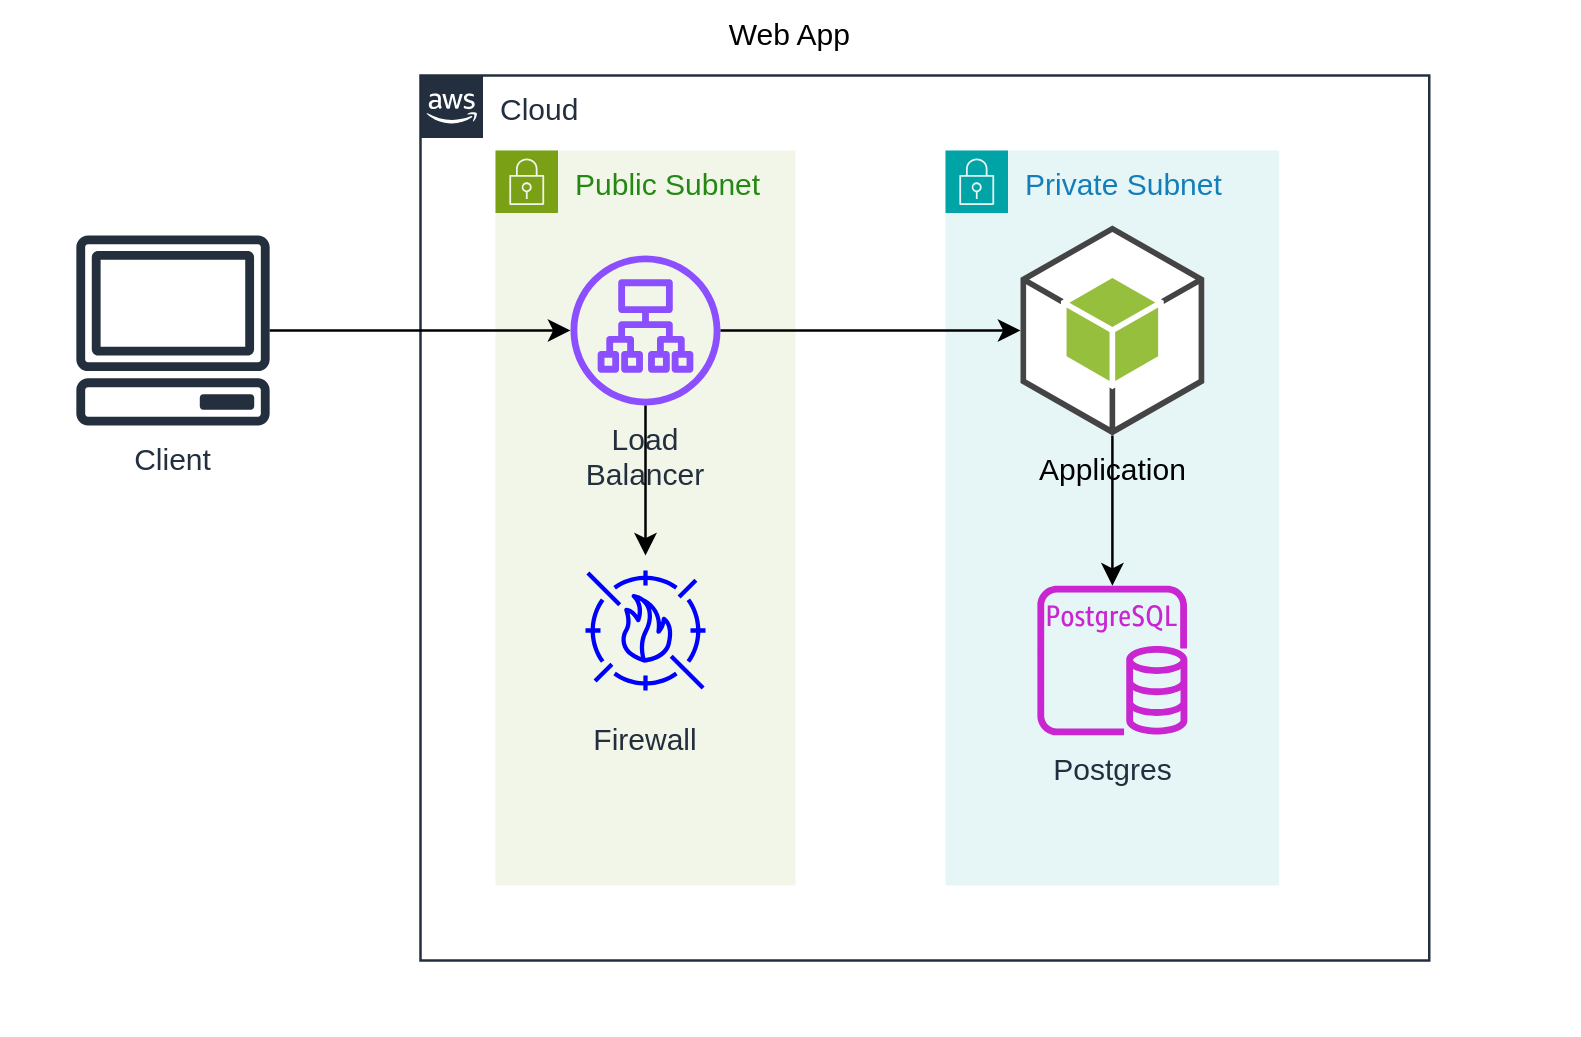
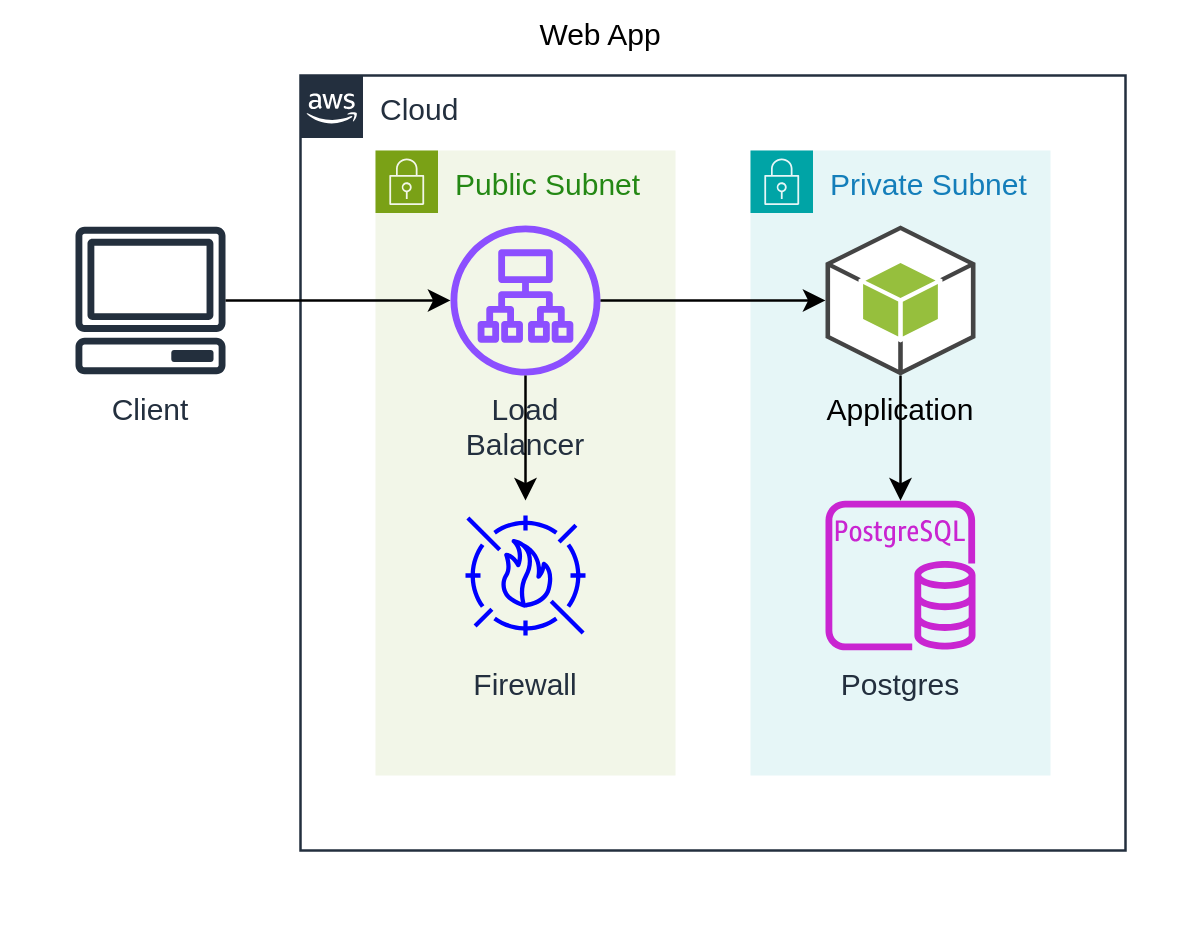
Support correct padding and margin

Changed region(s): [[0.0308, 0.0, 0.9235, 0.9364]]

diff --git a/core/renderer-drawio/src/processors/p31ResolveDimension.ts b/core/renderer-drawio/src/processors/p31ResolveDimension.ts
@@ -124,12 +124,8 @@ const resolveDimensions = (node: DrawioNodeTree, x: number, y: number) => {
 
     if (node._props._diagram.flags.isDirectionVertical) {
       if (child._props._diagram.state.height > 0) {
-        childY = childY + child._props._diagram.dimension.margin.top +
-          child._props._diagram.state.height +
-          child._props._diagram.dimension.margin.bottom
-        height = height + child._props._diagram.dimension.margin.top +
-          child._props._diagram.state.height +
-          child._props._diagram.dimension.margin.bottom
+        childY = childY + child._props._diagram.state.height
+        height = height + child._props._diagram.state.height
         width = Math.max(
           width,
           child._props._diagram.state.width,
@@ -137,12 +133,8 @@ const resolveDimensions = (node: DrawioNodeTree, x: number, y: number) => {
       }
     } else {
       if (child._props._diagram.state.width > 0) {
-        childX = childX + child._props._diagram.dimension.margin.left +
-          child._props._diagram.state.width +
-          child._props._diagram.dimension.margin.right
-        width = width + child._props._diagram.dimension.margin.left +
-          child._props._diagram.state.width +
-          child._props._diagram.dimension.margin.right
+        childX = childX + child._props._diagram.state.width
+        width = width + child._props._diagram.state.width
         height = Math.max(
           height,
           child._props._diagram.state.height,
@@ -203,7 +195,7 @@ const resolveDimensions = (node: DrawioNodeTree, x: number, y: number) => {
   node._props._diagram.state.height = node._props._diagram.geometry.height +
     node._props._diagram.dimension.margin.top +
     node._props._diagram.dimension.margin.bottom
-  if (node._props._diagram.isTextOutside) {
+  if (node._props._diagram.flags.isTextOutside) {
     node._props._diagram.state.height = node._props._diagram.state.height +
       node._props._diagram.dimension.textHeight
   }

diff --git a/core/renderer-drawio/src/processors/p61ConsolidateDependencies.ts b/core/renderer-drawio/src/processors/p61ConsolidateDependencies.ts
@@ -93,9 +93,7 @@ const populateAbs = ({ dependencies }: DrawioContext) => {
         selected._props._diagram.state.absLeft = absLeft(selected)
         selected._props._diagram.state.absRight =
           selected._props._diagram.state.absLeft +
-          selected._props._diagram.state.width -
-          selected._props._diagram.dimension.margin.left -
-          selected._props._diagram.dimension.margin.right
+          selected._props._diagram.geometry.width
         selected._props._diagram.state.absCenterX =
           (selected._props._diagram.state.absLeft +
             selected._props._diagram.state.absRight) / 2
@@ -103,9 +101,7 @@ const populateAbs = ({ dependencies }: DrawioContext) => {
         selected._props._diagram.state.absTop = absTop(selected)
         selected._props._diagram.state.absBottom =
           selected._props._diagram.state.absTop +
-          selected._props._diagram.state.height -
-          selected._props._diagram.dimension.margin.top -
-          selected._props._diagram.dimension.margin.bottom
+          selected._props._diagram.geometry.height
         selected._props._diagram.state.absCenterY =
           (selected._props._diagram.state.absTop +
             selected._props._diagram.state.absBottom) / 2

diff --git a/core/renderer-drawio/src/processors/p15ResolveAttrDiagram.tsx b/core/renderer-drawio/src/processors/p15ResolveAttrDiagram.tsx
@@ -43,7 +43,7 @@ const defaultDiagramOptions: base.Props = {
   dimension: {
     boxWidth: 60,
     boxHeight: 60,
-    textHeight: 10,
+    textHeight: 20,
     padding: {
       top: 15,
       bottom: 15,
@@ -97,9 +97,6 @@ function resolve(_props: DrawioNodeProps, options: DrawioRenderOptions) {
     configs.push(drawioConfig._diagram)
   }
   _props._diagram = {} as DrawioProps
-  if (_props._id === 'firewall') {
-    debugger
-  }
   configs.map((c) => base.deepMerge(_props._diagram, c))
 
   _props._node._children.map((c: DrawioNodeTree) => resolve(c._props, options))

diff --git a/core/renderer-drawio/src/utils.ts b/core/renderer-drawio/src/utils.ts
@@ -15,11 +15,11 @@ export const absTop = (node: DrawioNodeTree): number => {
 }
 
 export const absBottom = (node: DrawioNodeTree) => {
-  return absTop(node) + node._props._diagram.state.height
+  return absTop(node) + node._props._diagram.geometry.height
 }
 
 export const absRight = (node: DrawioNodeTree) => {
-  return absLeft(node) + node._props._diagram.state.width
+  return absLeft(node) + node._props._diagram.geometry.width
 }
 
 const collectParents = (

diff --git a/core/renderer-drawio/src/processors/p30CollectShapeAttr.ts b/core/renderer-drawio/src/processors/p30CollectShapeAttr.ts
@@ -6,9 +6,6 @@ function mergeElement({ _props }: DrawioNodeTree) {
   const shapeAttributes = _diagram.flags.isEntity
     ? _diagram.entity
     : _diagram.group
-  if (_props._id === 'firewall') {
-    debugger
-  }
   if (shapeAttributes) {
     const { geometry, ...element } = shapeAttributes
     if (geometry) {
